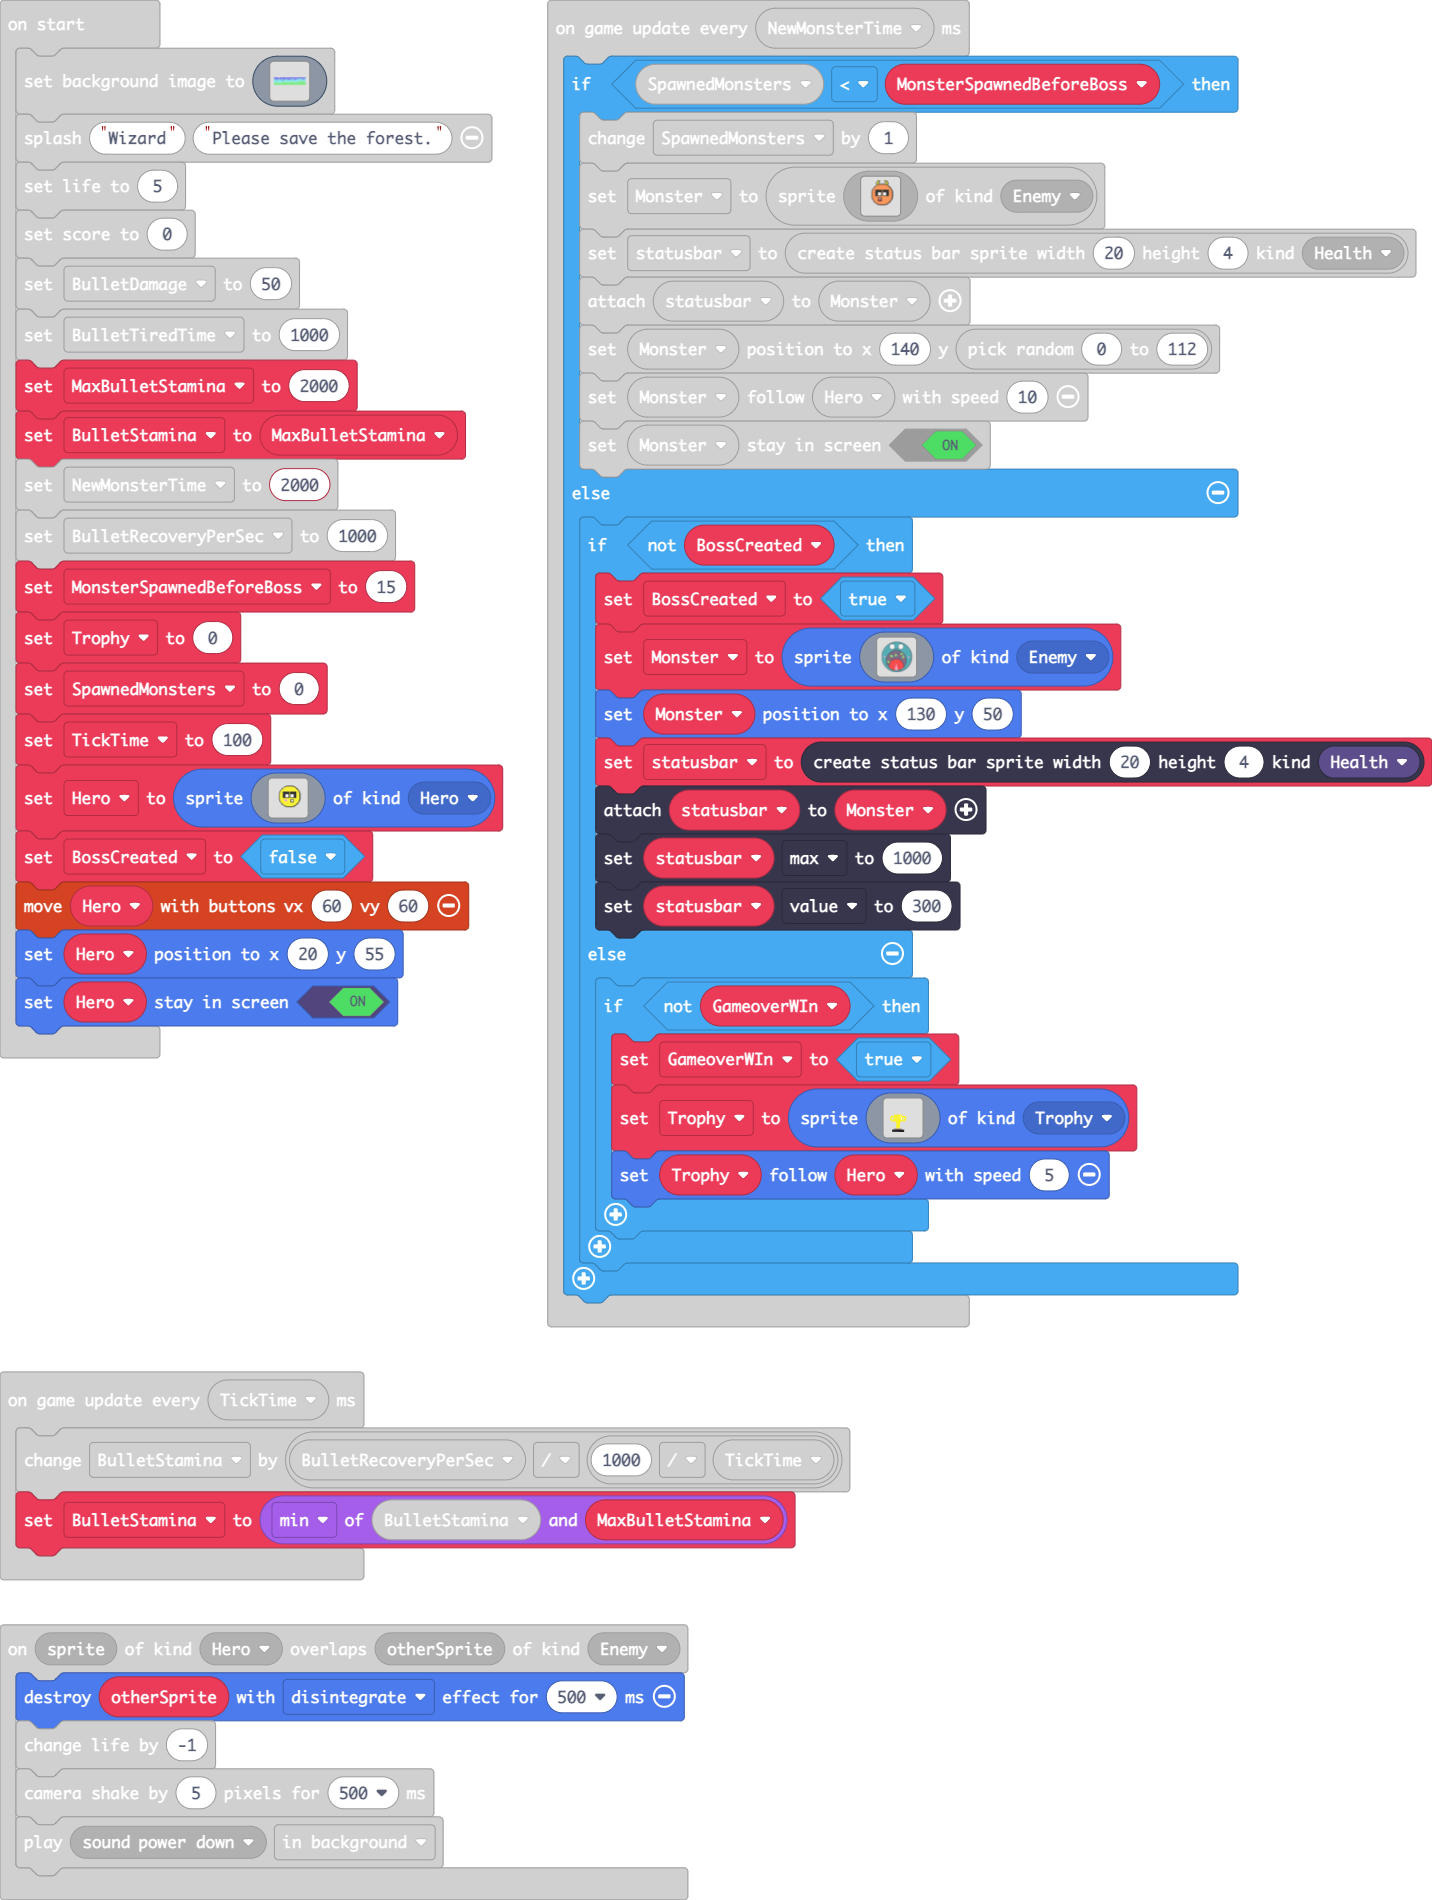
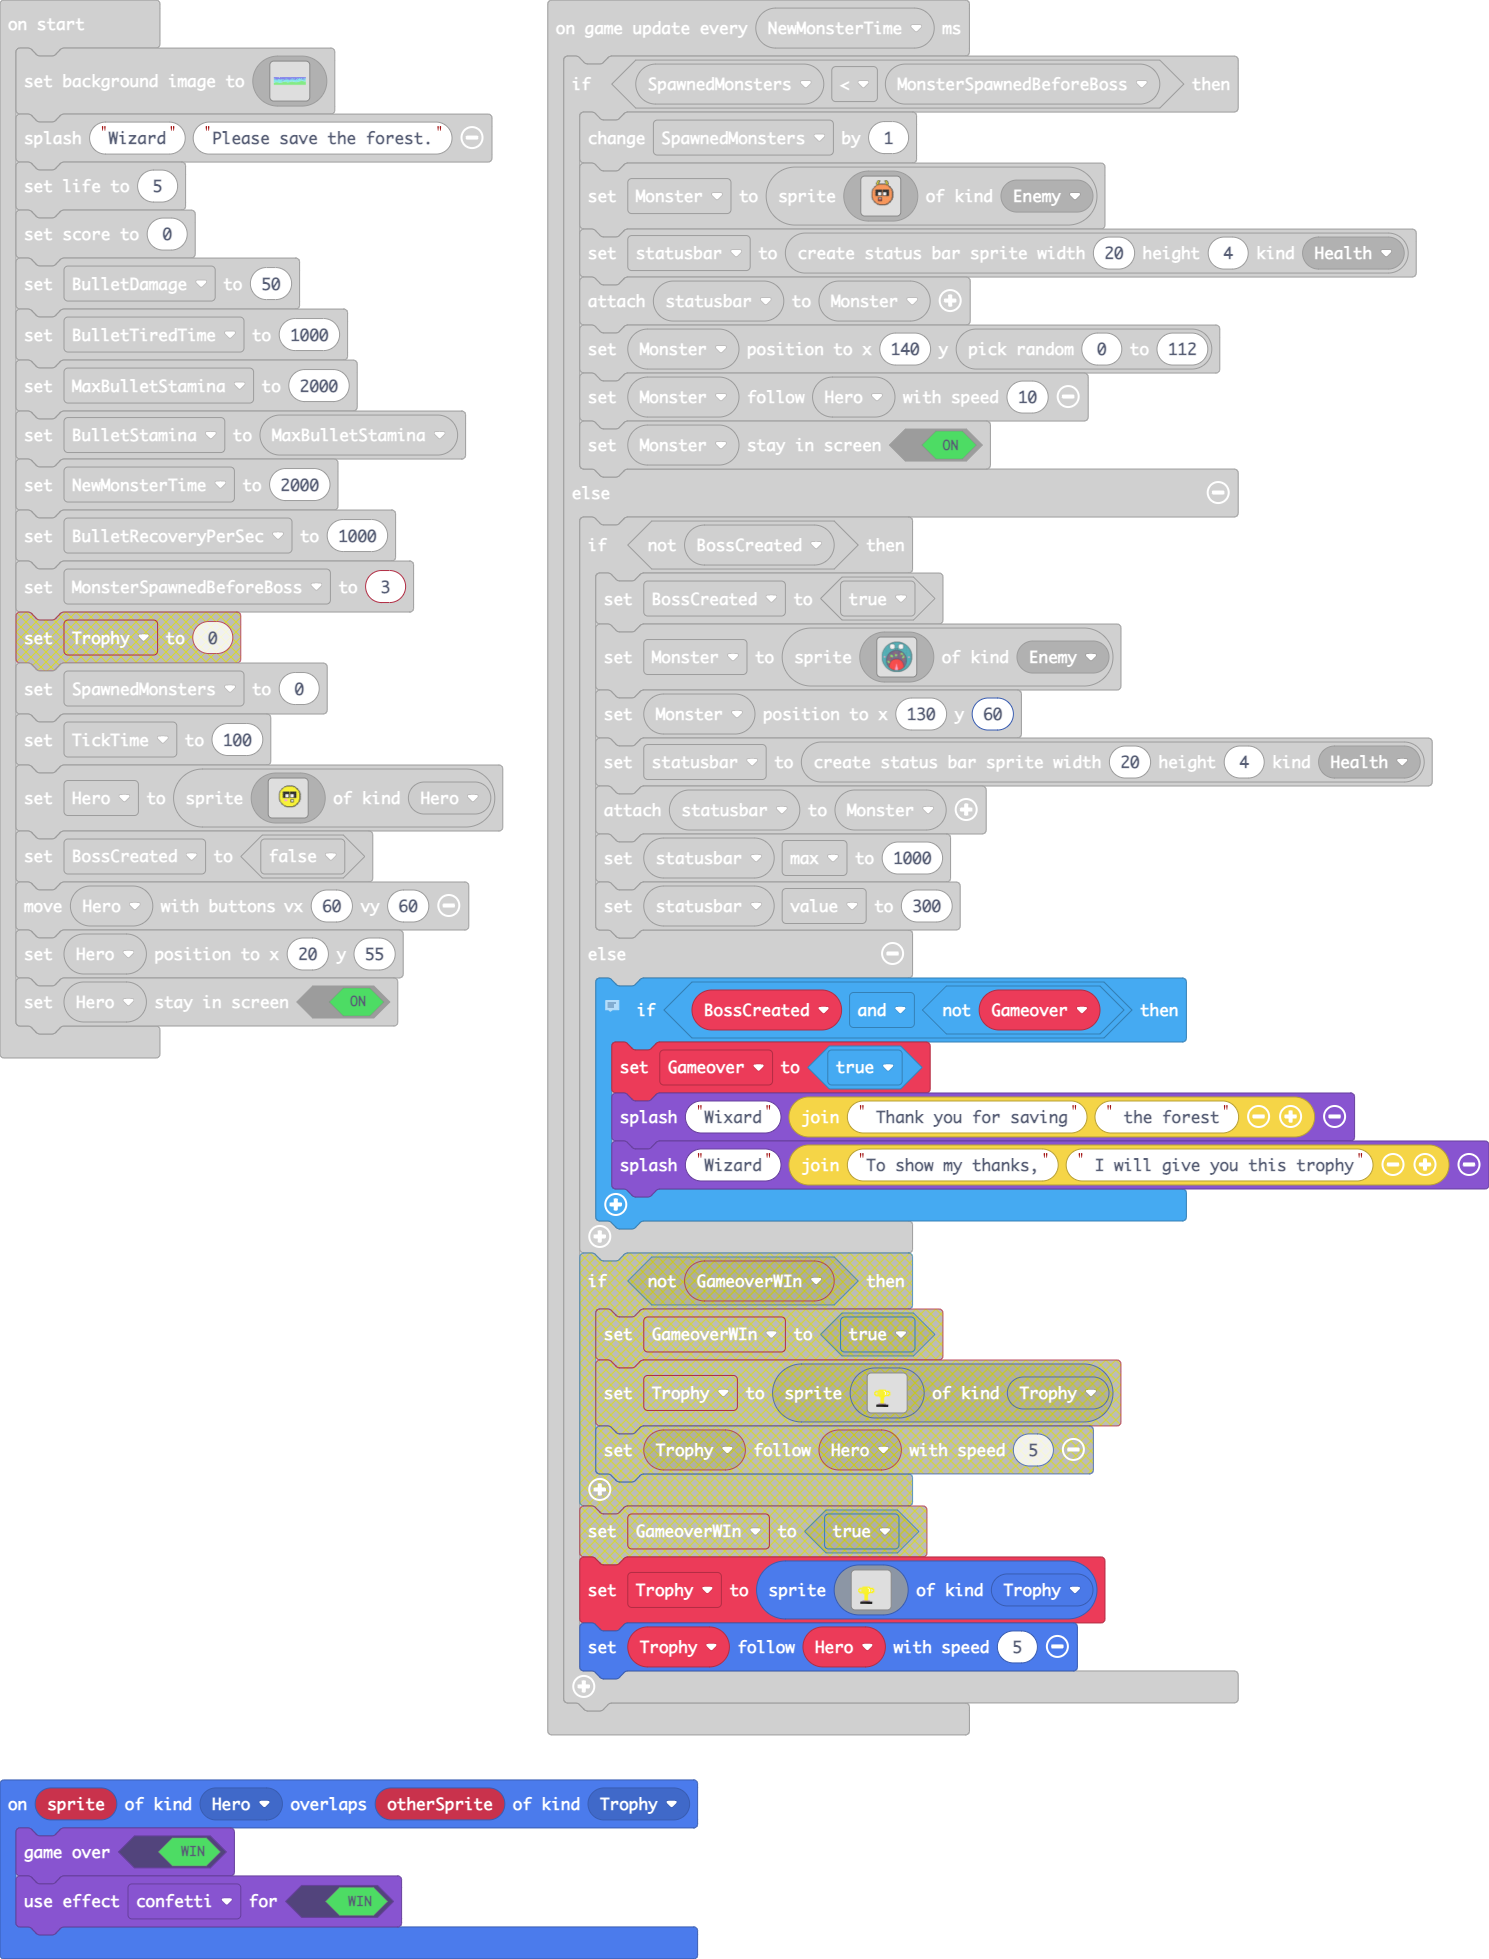
Update main.blocks, main.ts

diff --git a/main.ts b/main.ts
@@ -8,6 +8,10 @@ sprites.onOverlap(SpriteKind.Bullet, SpriteKind.Enemy, function (sprite, otherSp
     statusbars.getStatusBarAttachedTo(StatusBarKind.Health, otherSprite).value += 0 - BulletDamage
     sprites.destroy(sprite)
 })
+sprites.onOverlap(SpriteKind.Hero, SpriteKind.Trophy, function (sprite, otherSprite) {
+    game.gameOver(true)
+    game.setGameOverEffect(true, effects.confetti)
+})
 sprites.onOverlap(SpriteKind.Hero, SpriteKind.Enemy, function (sprite, otherSprite) {
     sprites.destroy(otherSprite, effects.disintegrate, 500)
     info.changeLifeBy(-1)
@@ -78,7 +82,8 @@ controller.A.onEvent(ControllerButtonEvent.Released, function () {
         Fire_Ball.setKind(SpriteKind.Bullet)
     }
 })
-let GameoverWIn = false
+let Trophy: Sprite = null
+let Gameover = false
 let statusbar: StatusBarSprite = null
 let Monster: Sprite = null
 let Fire_Ball: Sprite = null
@@ -217,8 +222,7 @@ let MaxBulletStamina = 2000
 BulletStamina = MaxBulletStamina
 let NewMonsterTime = 2000
 let BulletRecoveryPerSec = 1000
-let MonsterSpawnedBeforeBoss = 15
-let Trophy: Sprite = 0
+let MonsterSpawnedBeforeBoss = 3
 let SpawnedMonsters = 0
 let TickTime = 100
 Hero = sprites.create(img`
@@ -446,14 +450,18 @@ game.onUpdateInterval(NewMonsterTime, function () {
                 ....................................................................................................
                 ....................................................................................................
                 `, SpriteKind.Enemy)
-            Monster.setPosition(130, 50)
+            Monster.setPosition(130, 60)
             statusbar = statusbars.create(20, 4, StatusBarKind.Health)
             statusbar.attachToSprite(Monster)
             statusbar.max = 1000
             statusbar.value = 300
         } else {
-            if (!(GameoverWIn)) {
-                GameoverWIn = true
+            // Need to fix this.
+            // Make it a bit better
+            if (BossCreated && !(Gameover)) {
+                Gameover = true
+                game.splash("Wixard", " Thank you for saving" + " the forest")
+                game.splash("Wizard", "To show my thanks," + " I will give you this trophy")
                 Trophy = sprites.create(img`
                     ..............................
                     ..............................
